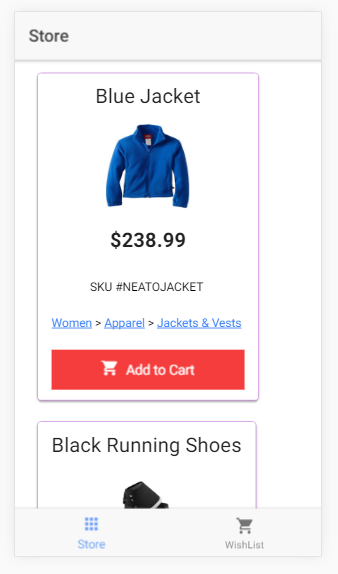
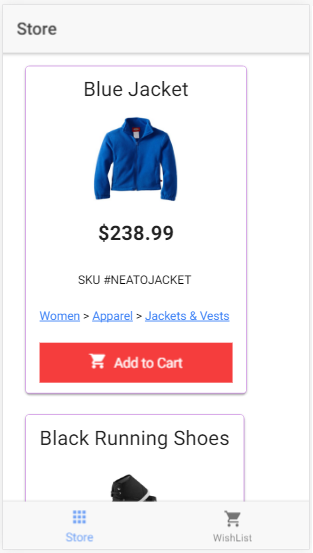
ui updated screen size

diff --git a/src/app/services/portfolio.service.ts b/src/app/services/portfolio.service.ts
@@ -7,6 +7,7 @@ export interface IProject {
     readme: string;
     src: string;
     demo: string;
+    class?: string,
 }
 
 @Injectable()
@@ -108,6 +109,7 @@ export class PortfolioService {
         technologies: ['TypeScript2', 'Ionic2', 'Firebase Database'],
         readme: 'This is a simple online store kind of demo app, with Add-to-Cart functionality.',
         src: '../../assets/Images/ionicInventory.png',
+        class: 'fixSize',
         demo: 'https://ionic-inventoryapp.firebaseapp.com/'
       },
       {
@@ -116,6 +118,7 @@ export class PortfolioService {
         technologies: ['TypeScript2', 'Ionic2', 'Firebase Database'],
         readme: 'To Do App lets you create your TODO Account to enlist daily based tasks that are edittable and removable.',
         src: '../../assets/Images/ionictodo.png',
+        class: 'fixSize',
         demo: 'https://ionic-todoapp-d0b38.firebaseapp.com/'
       }
     ];

diff --git a/src/app/projects/projects.component.scss b/src/app/projects/projects.component.scss
@@ -5,10 +5,10 @@
     display: inline-flex;
 }
 .flexItem {
-    // @include setWidth(42vw);
     flex: 1 1 auto;
     margin: 0 10px;
     text-align: center;
+    border: 1px solid rgb(103,58,183);
 }
 .noDecor {
     text-decoration: none;
@@ -21,8 +21,11 @@
     @include setWidth(55vw);
 }
 .screenSize {
-    // height: 90vh;
-    // @include setWidth(99vw);
-    height: 88vh;
-    width: 96vw;
+    @include setWidth(calc(100vw - 83px));
+    height: 100vh;
+    border: 1px solid rgb(103,58,183);
+}
+.fixSize {
+    height: 70%;
+    width: 50%;
 }

diff --git a/src/app/projects/projects.component.html b/src/app/projects/projects.component.html
@@ -17,13 +17,13 @@
     <md-card-subtitle>
       <h3> {{prj.technologies}} </h3>
     </md-card-subtitle>
-    <img md-card-image src={{prj.src}} alt="project" />
+    <img ngClass="{{prj.class}}" md-card-image src={{prj.src}} alt="project" />
     <md-card-content>
       {{prj.readme}}
     </md-card-content>
     <md-card-actions>
       <a class="noDecor" type="button" md-raised-button color="primary" href="{{prj.demo}}" target="_blank"> VIEW LIVE </a>
     </md-card-actions>
-    <br>
+    <br><br>
   </md-card>
 </md-card>

diff --git a/src/app/contact/contact.component.css b/src/app/contact/contact.component.css
@@ -16,15 +16,14 @@ a {
     text-align: right;
 }
 .screenSize {
-    /*height: 90vh;
-    width: 99vw;*/
-    height: 92vh;
+    height: 90vh;
     width: 99vw;
 }
 .card {
-    /*width: 70vw;*/
-    /*margin: 55px auto;*/
     padding: 50px;
     opacity: 0.7;
     text-align: center;
+    width: 70vw;
+    height: 45vh;
+    margin: 5vh auto;
 }

diff --git a/src/app/about/about.component.css b/src/app/about/about.component.css
@@ -15,7 +15,8 @@
 }
 .card {
     width: 70vw;
-    margin: 55px auto;
+    margin: 0 auto;
+    /*margin: 55px auto;*/
     opacity: 0.7;
 }
 .justify {
@@ -43,6 +44,11 @@
     margin: 0 auto;
 }
 .screenSize {
-    height: 92vh;
-    width: 99vw;
+    /*height: 92vh;
+    width: 99vw;*/
+    height: 90vh;
+    width: 98.7vw;
 }
+
+
+

diff --git a/src/app/home/home.component.html b/src/app/home/home.component.html
@@ -1,5 +1,4 @@
 <md-card class="bgImage screenSize">
-  <!--<img md-card-imagesrc="../../assets/Images/developer.jpg" />-->
   <div class="text">
     <h1> I'm Qurat ul Ann Iqbal </h1>
     <h2> A Front-end Web and Hybrid Mobile Apps Developer </h2>

diff --git a/src/app/home/home.component.css b/src/app/home/home.component.css
@@ -13,6 +13,8 @@
 .screenSize {
     /*height: 90vh;
     width: 99vw;*/
-    height: 88vh;
-    width: 96vw;
+    /*height: 88vh;
+    width: 96vw;*/
+    height: 84vh;
+    width: 95vw;
 }

diff --git a/src/app/contact/contact.component.html b/src/app/contact/contact.component.html
@@ -1,4 +1,5 @@
 <div class="screenSize bgImage">
+    <br><br>
   <md-card class="card">
     <md-card-header>
       <md-card-title>
